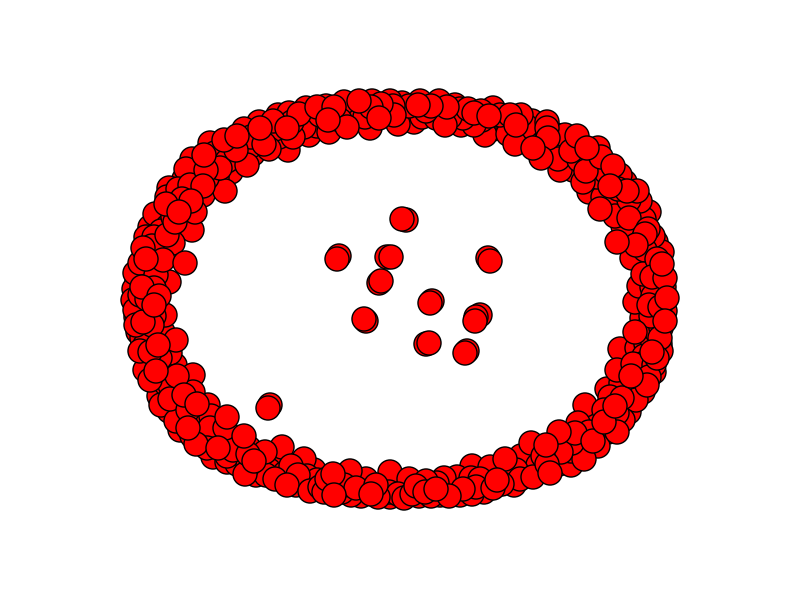
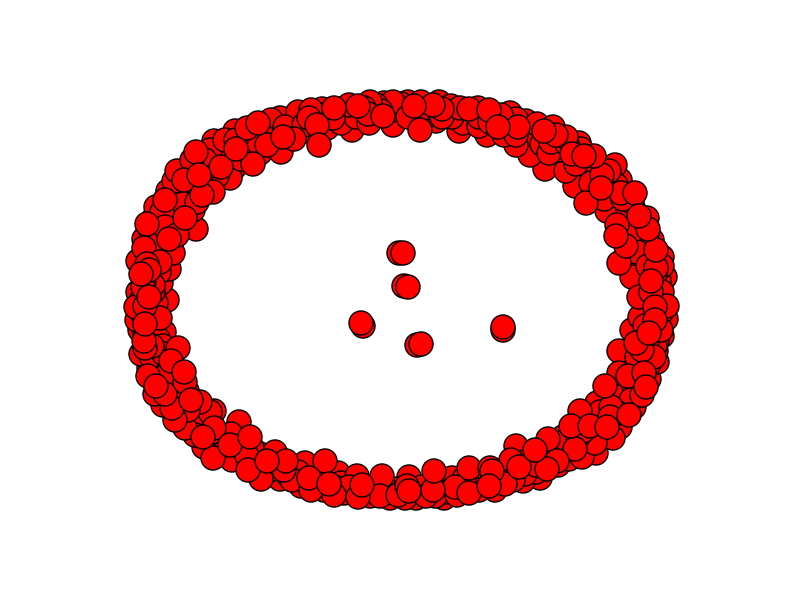
new figures

diff --git a/proj.py b/proj.py
@@ -35,15 +35,15 @@ popd = .001
 n = 500
 
 
-for i in range(100):
+for i in range(10):
 	g = nx.erdos_renyi_graph(n,p)
 	graphs.append(g)
 	fig = nx.draw(g)
 	name = "plots/graphs/n"+str(n)+"p"+str(p)[:6]+".png"
 	plt.savefig(name)
 	plt.clf()
-	p += 0.0005
-	n += 5
+	p += 0.001
+	#n += 5
 	
 
 
